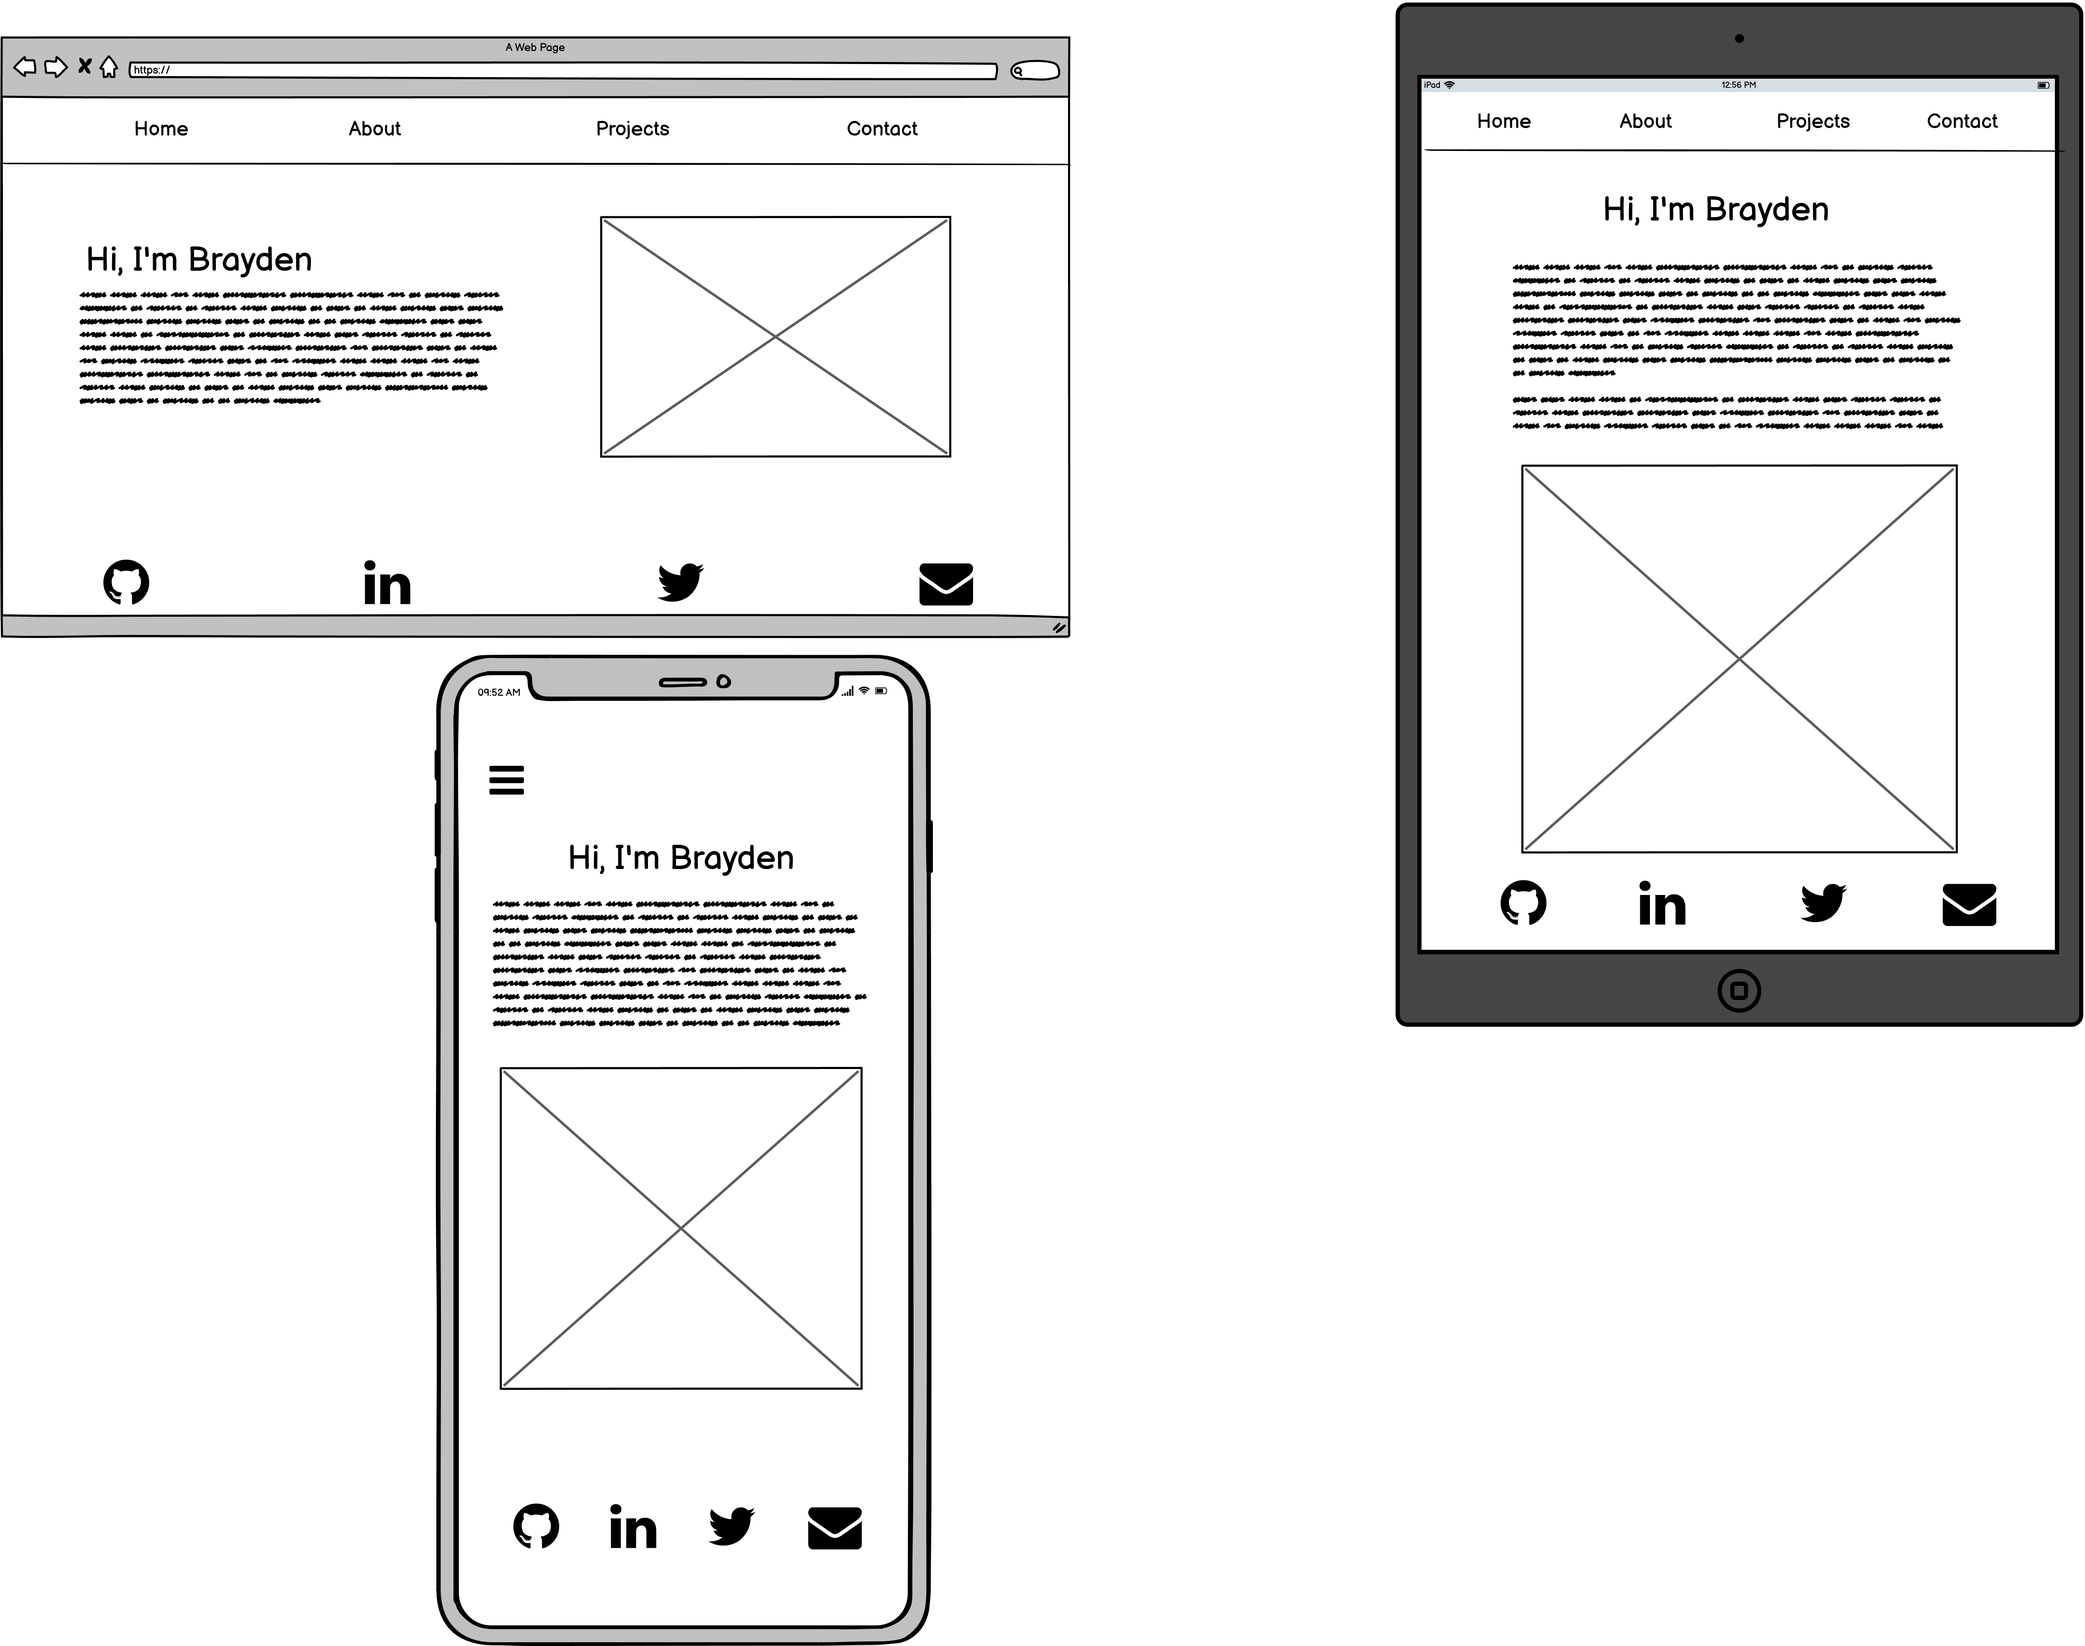
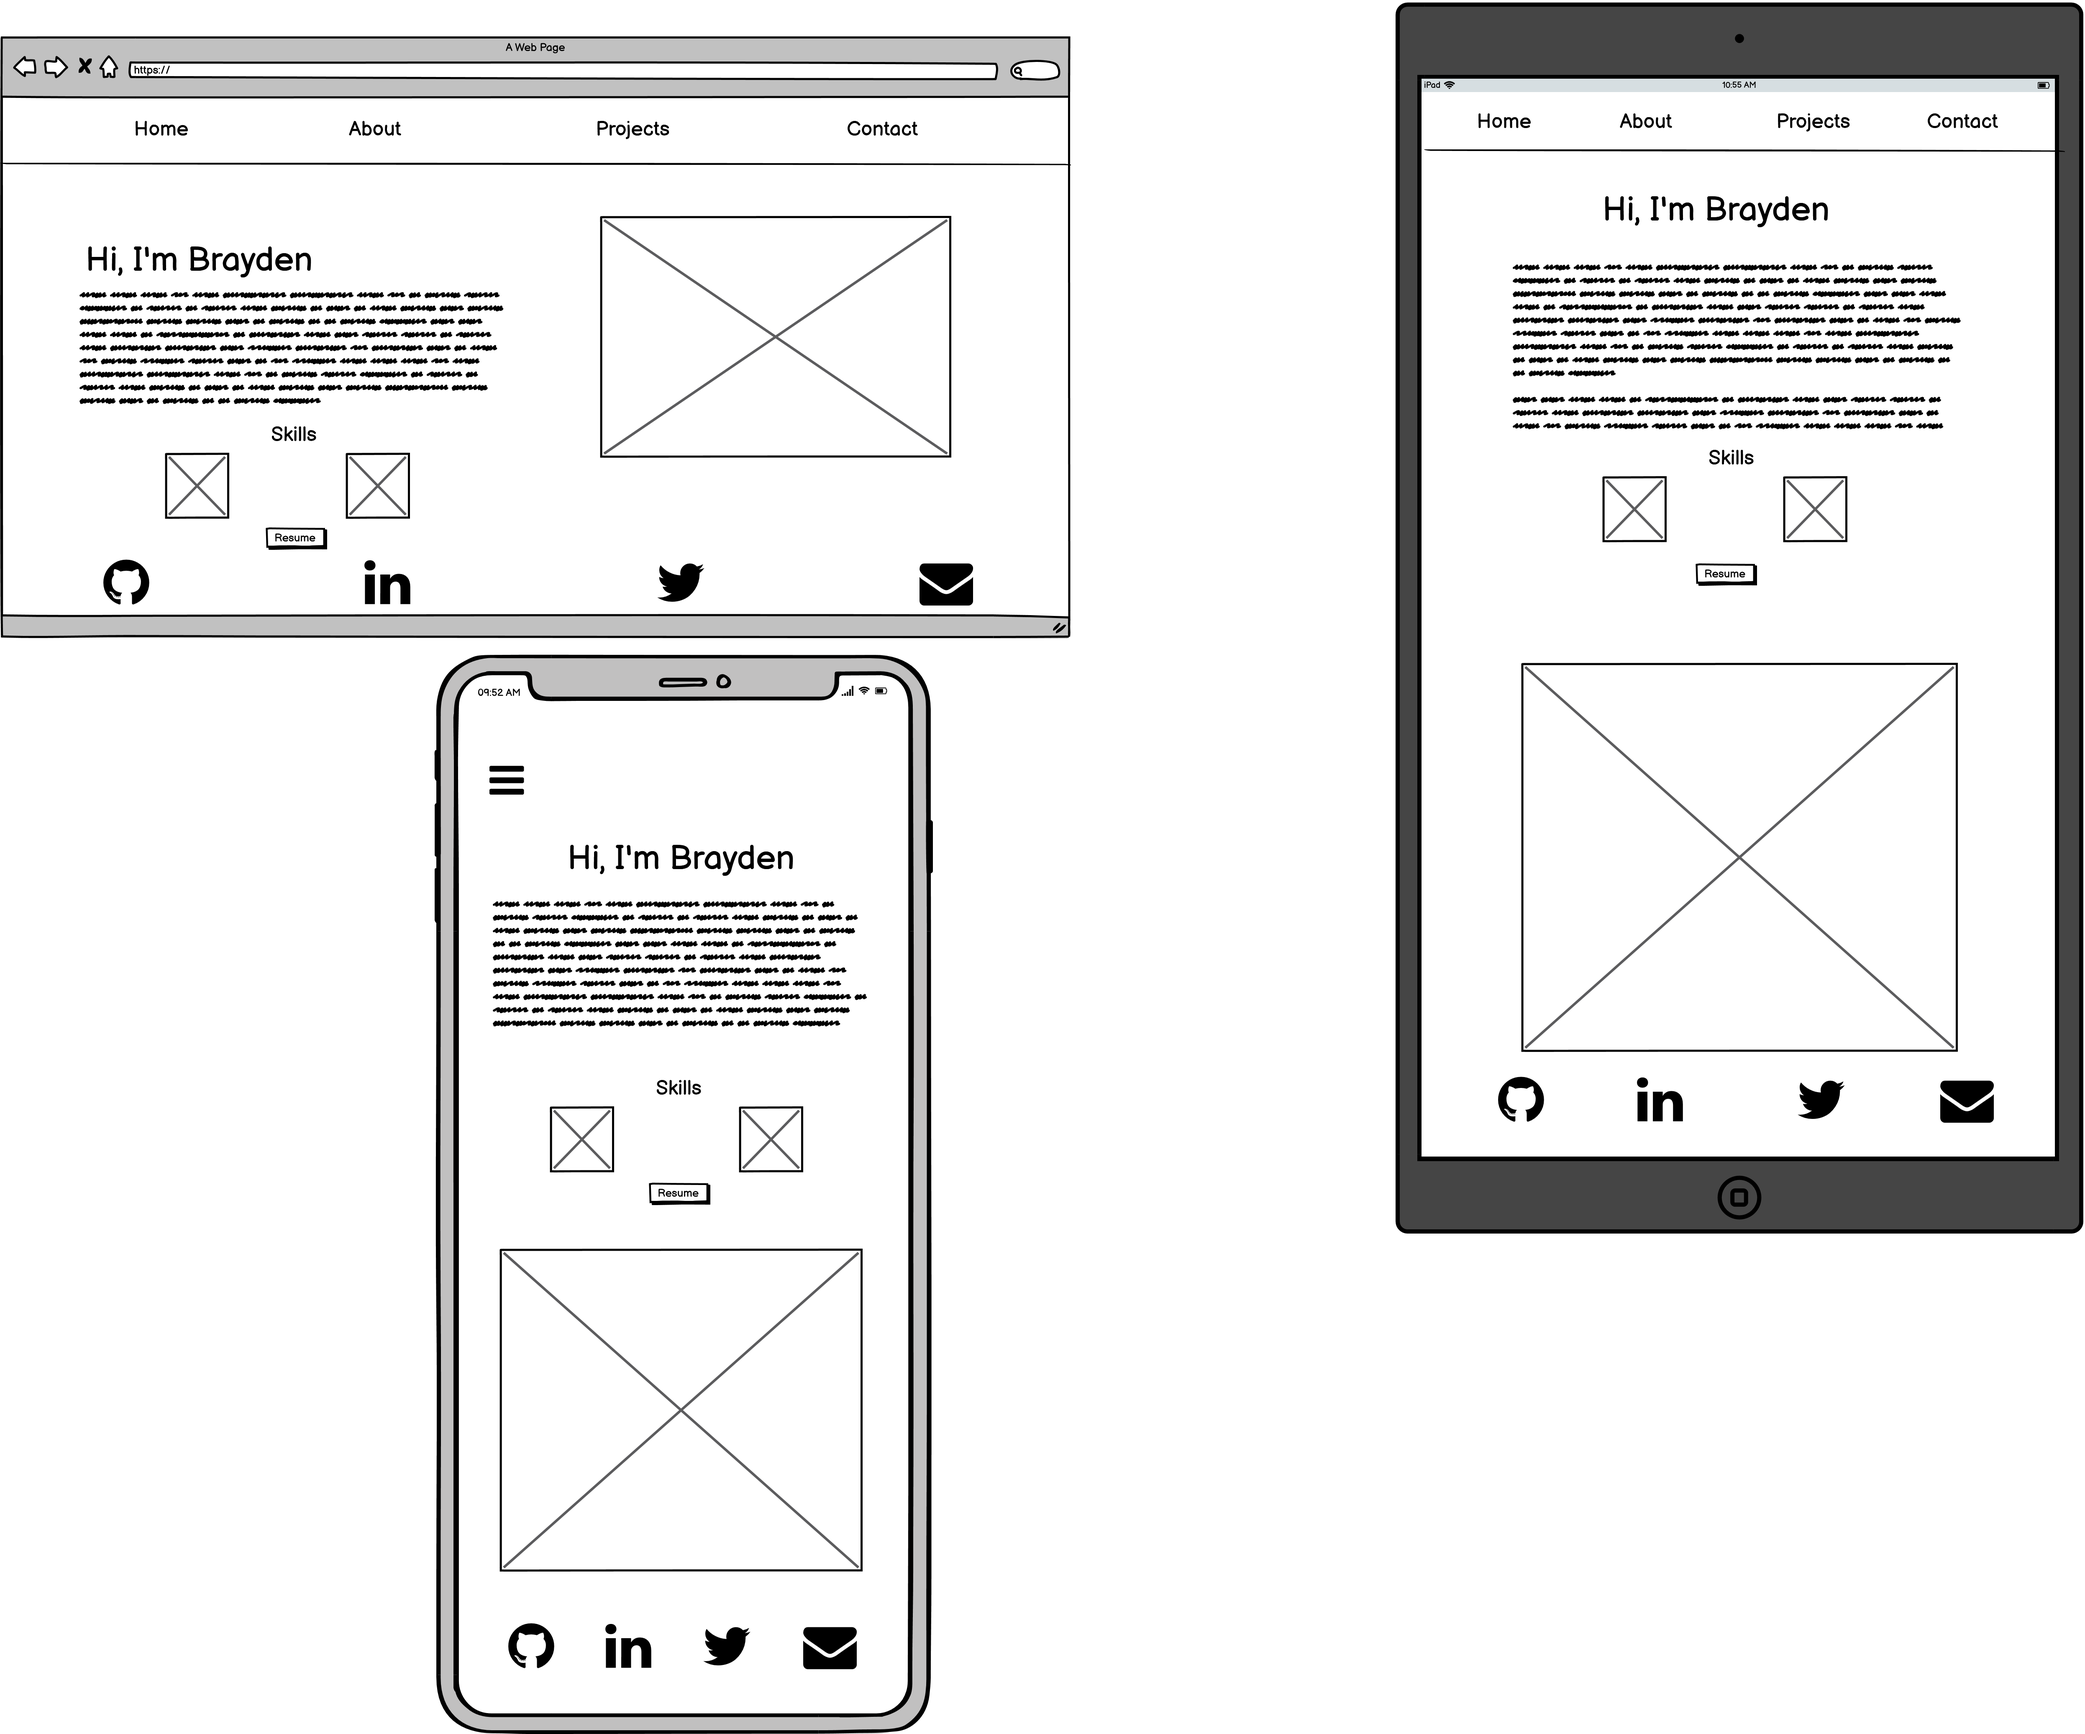
Resume Button update

diff --git a/BraydenOGorman_T1A2/src/css/style.css b/BraydenOGorman_T1A2/src/css/style.css
@@ -19,7 +19,7 @@ nav {
   height: 100px;
   min-width: 300px;
   width: 100vw;
-  background-color:black;
+  background-color: black;
   border-bottom: black solid;
 }
 
@@ -42,8 +42,6 @@ p {
   margin: 0;
   margin-bottom: 5px;
 }
-
-
 
 li {
   text-decoration: none;
@@ -79,7 +77,8 @@ main {
   padding-top: 15px;
   background-color: #fed240;
   background-clip: content-box;
-  border-radius: 10%;
+  border-radius: 20%;
+  width: 80%;
 }
 
 .content p {
@@ -106,7 +105,6 @@ main {
   padding: 12px 30px;
   cursor: pointer;
   font-size: 20px;
-  border-radius: 10%;
 }
 
 .main-img > img {
@@ -117,12 +115,16 @@ main {
   max-width: 400px;
 }
 
+.resume {
+  padding-bottom: 10px;
+}
+
 footer {
   display: flex;
   justify-content: space-evenly;
   align-items: center;
   justify-items: center;
-  background-color:#fed240;
+  background-color: #fed240;
   position: fixed;
   left: 0;
   bottom: 0;
@@ -215,7 +217,6 @@ address {
 .project-header {
   text-align: center;
   padding: 20px;
-  width: 200px;
   display: flex;
   justify-content: center;
   align-items: center;
@@ -224,7 +225,6 @@ address {
 .project-header h1 {
   background-color: #fed240;
   background-clip: inherit;
-  
 }
 
 .project-card p {
@@ -239,6 +239,7 @@ address {
   align-items: center;
   justify-content: center;
   padding-bottom: 75px;
+  row-gap: 50px;
 }
 
 .project-card {
@@ -252,7 +253,20 @@ address {
   padding-bottom: 10px;
   background-color: #fed240;
   border-radius: 10%;
-  border: black solid 2px;
+  border: black solid 1px;
+}
+
+
+
+@media screen and (min-width: 705px) {
+  .about-main {
+    height: calc(100vh - 175px);
+  }
+
+  .project-content {
+    column-gap: 200px;
+    row-gap: 50px;
+  }
 }
 
 @media screen and (min-width: 905px) {
@@ -260,7 +274,6 @@ address {
     width: 50%;
     padding-bottom: 115px;
     padding-top: 100px;
-    
   }
 
   .content p {
@@ -272,9 +285,7 @@ address {
     padding-bottom: 75px;
     padding-top: 75px;
     flex-direction: row;
-
   }
-
 
   .about-content p {
     padding-bottom: 70px;
@@ -317,13 +328,7 @@ address {
   }
 
   .project-content {
-    column-gap: 250px;
+    column-gap: 300px;
     row-gap: 50px;
-  }
-}
-
-@media screen and (min-width: 705px) {
-  .about-main {
-    height: calc(100vh - 175px);
   }
 }

diff --git a/BraydenOGorman_T1A2/src/about.html b/BraydenOGorman_T1A2/src/about.html
@@ -38,10 +38,12 @@
             natus! Quo ullam quas incidunt porro.
           </p>
           <article>
-          <h2>Skills:</h2>
-          <img src="img/html-5.png" alt="HTML logo">
-          <img src="img/css.png" alt="CSS logo">
-          <section><button class="btn"><i class="fa fa-download"></i> Resume</button></section>
+            <h2>Skills:</h2>
+            <img src="img/html-5.png" alt="HTML logo">
+            <img src="img/css.png" alt="CSS logo">
+            <section class="resume">
+              <a href="docs/Resume.txt" download="Resume - Brayden O'Gorman"><button class="btn"><i class="fa fa-download"></i> Resume</button></a>
+            </section>
           </article>
           
           

diff --git a/BraydenOGorman_T1A2/src/index.html b/BraydenOGorman_T1A2/src/index.html
@@ -7,16 +7,6 @@
     <link rel="stylesheet" href="css/style.css" />
     <link rel="stylesheet" href="https://cdnjs.cloudflare.com/ajax/libs/font-awesome/4.7.0/css/font-awesome.min.css">
     <title>Home</title>
-<script>
-function myFunction() {
-  var x = document.getElementById("myLinks");
-  if (x.style.display === "block") {
-    x.style.display = "none";
-  } else {
-    x.style.display = "block";
-  }
-}</script>
-
   </head>
   <body>
       <nav class="navbar">

diff --git a/BraydenOGorman_T1A2/src/contact.html b/BraydenOGorman_T1A2/src/contact.html
@@ -24,7 +24,9 @@
             <img src="img/email.png" alt="" class="email-icon" >
             <h1 class="contact-info">Brayden.ogorman@gmail.com</h1>
           </div>
+          <div>
             <h1 class="contact-info">0424405524</h1>
+          </div>
         </div>
       </section>
       <section class="contact-form">
